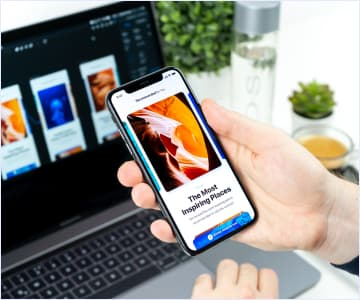
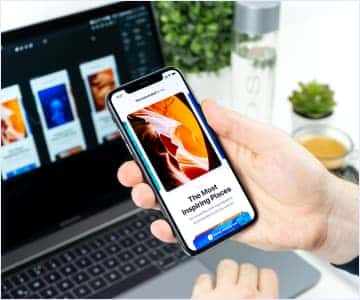
update ./images/iphone.jpg"

diff --git a/index.html b/index.html
@@ -76,7 +76,9 @@
               width="360"
             />
           </li>
-          <li><img src="/images/iphone.jpg" alt="iphone" width="360" /></li>
+          <li>
+            <img src="./images/iphone.jpg" alt="iphone" width="360" />
+          </li>
         </ul>
       </section>
       <section>
